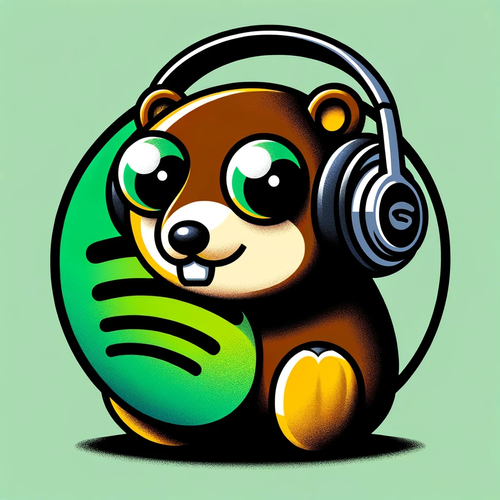
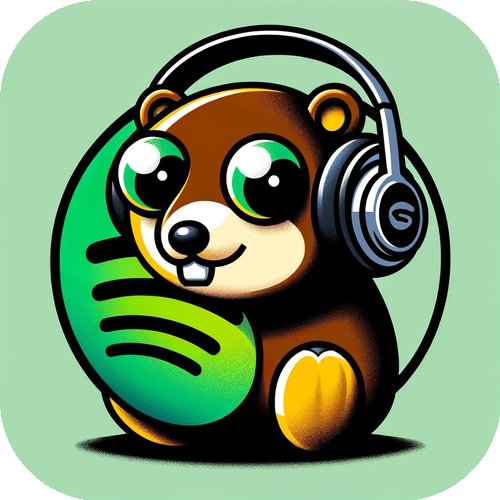
refactor picture

diff --git a/README.md b/README.md
@@ -3,7 +3,7 @@
 </div>
 
 <div align="center">
-    <img src="assets/emoji.png" width="300" height="300" alt="Go Spotify CLI Logo" style="border-radius: 25px;">
+    <img src="assets/emoji.png" width="300" height="300" alt="Go Spotify CLI Logo">
 </div>
 
 <div align="center">
